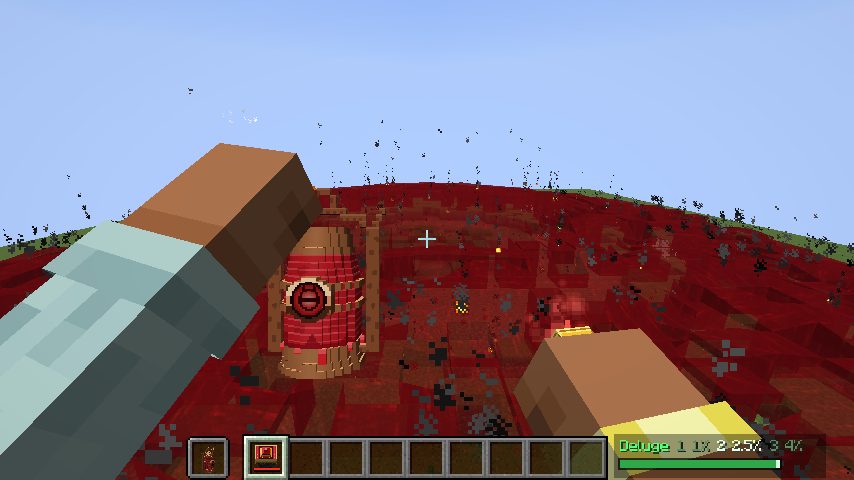
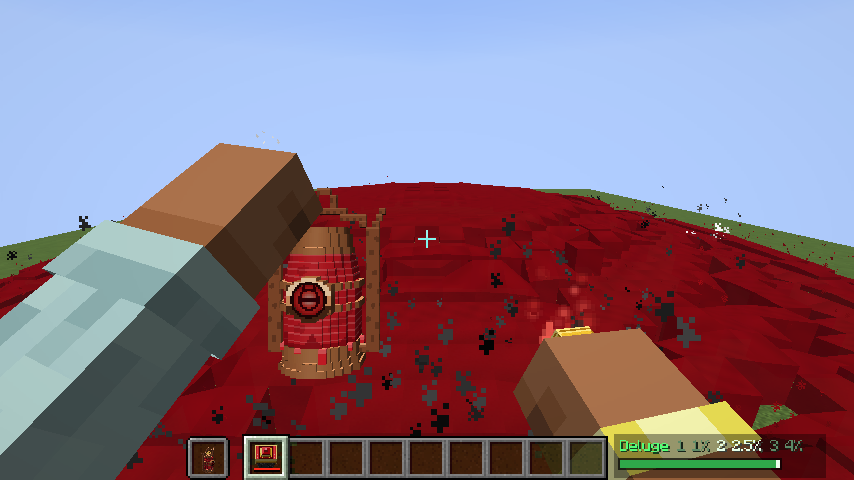
Red Deluge: thick opaque blood with a smooth surface
Complementary copy (patch version 6): the red Deluge is deep blood red and opaque whatever the
Water Opacity setting, with calmer normals and no Waving Water Height. Without shaders it uses
soft, nearly opaque ripples. The pool is one unbroken sheet (no holes in the middle or gobs past
the edge), and the pit floor is soaked nether wart instead of magma, with blood instead of lava
particles.

Claude-Session: https://claude.ai/code/session_015WxYnqCy8SrDgc7MXbPwiZ

Changed region(s): [[0.1218, 0.375, 1.0, 1.0], [0.0, 0.4375, 0.1218, 0.6562], [0.4871, 0.9688, 0.5176, 1.0]]

diff --git a/src/main/java/com/sparky/lanternring/Deluges.java b/src/main/java/com/sparky/lanternring/Deluges.java
@@ -444,13 +444,8 @@ public final class Deluges {
 				double angle = (Math.atan2(dz, dx) / (Math.PI * 2) + 1) * edge.length;
 				int i0 = (int) Math.floor(angle) % edge.length;
 				double t = angle - Math.floor(angle);
-				if (dist > Mth.lerp(t, edge[i0], edge[(i0 + 1) % edge.length])) {
-					// The red one splatters: gobs of its liquid land past the pool's edge, thinning out with distance.
-					if (drop.lava() && level.getRandom().nextDouble() < 0.45 * (1 - (dist - radius * 0.85) / (reach - radius * 0.85))) pour.add(surface);
-					continue;
-				}
-				// The red burst blasts its middle out into the tsunami: only a thin, broken film is left there.
-				if (drop.lava() && dist < radius * 0.45 && level.getRandom().nextDouble() > 0.25 + dist / (radius * 0.45) * 0.5) continue;
+				// The red pool is one smooth, unbroken sheet (J: no sharp angles), so no gobs past its edge or holes in it.
+				if (dist > Mth.lerp(t, edge[i0], edge[(i0 + 1) % edge.length])) continue;
 				pour.add(surface);
 				// The middle of the flood is deeper.
 				if (!drop.lava() && dist < radius * 0.4 && passable(level.getBlockState(surface.above()))) pour.add(surface.above());
@@ -726,8 +721,8 @@ public final class Deluges {
 
 	/** How many layers of ground the red liquid melts down through, one every LAVA_MELT. */
 	private static final int MELT_LAYERS = 2;
-	/** How much of the deeper layer is left as magma (the rest stays as it was). */
-	private static final double MAGMA_SHARE = 0.75;
+	/** How much of the deeper layer is left soaked blood red (the rest stays as it was). */
+	private static final double SOAK_SHARE = 0.75;
 
 	/** The red burst: a spray of fine blood-red drops and splashes, and a roar of flame (the grass at the edge still catches). */
 	private static void lavaBurst(Drop drop, Vec3 center, int radius) {
@@ -755,7 +750,7 @@ public final class Deluges {
 	/**
 	 * The red liquid melts the ground under it, a layer at a time. The first layer melts away into
 	 * more liquid, so the pool sinks into the ground as it drains; the layer under that is mostly
-	 * turned to magma, the glowing floor of the pit it leaves.
+	 * soaked blood red (nether wart block), the floor of the pit it leaves.
 	 */
 	private static void melt(Drop drop) {
 		ServerLevel level = drop.level;
@@ -770,13 +765,13 @@ public final class Deluges {
 				level.setBlock(at, drop.liquid.defaultBlockState(), 2);
 				drop.sunk.add(at.immutable());
 				drop.minY = Math.min(drop.minY, at.getY());
-			} else if (level.getRandom().nextDouble() < MAGMA_SHARE) {
-				level.setBlock(at, Blocks.MAGMA_BLOCK.defaultBlockState(), 3);
+			} else if (level.getRandom().nextDouble() < SOAK_SHARE) {
+				level.setBlock(at, Blocks.NETHER_WART_BLOCK.defaultBlockState(), 3);
 			} else {
 				continue;
 			}
 			if (level.getRandom().nextInt(5) == 0) {
-				level.sendParticles(ParticleTypes.LAVA, at.getX() + 0.5, at.getY() + 2, at.getZ() + 0.5, 1, 0.3, 0.1, 0.3, 0.1);
+				level.sendParticles(BLOOD, at.getX() + 0.5, at.getY() + 2, at.getZ() + 0.5, 3, 0.3, 0.1, 0.3, 0.1);
 			}
 			if (sounds < 8 && level.getRandom().nextInt(12) == 0) {
 				sounds++;
@@ -796,7 +791,7 @@ public final class Deluges {
 		return hardness >= 0 && hardness <= 3.5f && drop.level.mayInteract(drop.owner, pos);
 	}
 
-	/** After the red liquid is gone: forget where it melted (the magma floor is already in place). */
+	/** After the red liquid is gone: forget where it melted (the soaked floor is already in place). */
 	private static void scorch(Drop drop) {
 		drop.sunk.clear();
 	}

diff --git a/src/client/java/com/sparky/lanternring/client/ShaderPackPatcher.java b/src/client/java/com/sparky/lanternring/client/ShaderPackPatcher.java
@@ -32,12 +32,12 @@ import net.minecraft.network.chat.Component;
  * pack version, no copy is made and the mod falls back to {@link ShaderPackIds}.
  *
  * <p>IDs it adds: blocks 19000 (green), 19004 (red), 19008 (violet), 19012 (orange), 19016 (blue),
- * 19020 (yellow, for later), 32002 (green Deluge) and 32003 (Red Deluge), both treated as water; held items 44085 (green)
+ * 19020 (yellow, for later), 32002 (green Deluge) and 32003 (Red Deluge, thick opaque blood), both treated as water; held items 44085 (green)
  * and 44086 (red). Light colour slots 85 to 90 follow the same order.
  */
 final class ShaderPackPatcher {
 	/** Bump when the edits change, so existing copies are made again. */
-	private static final String VERSION = "5";
+	private static final String VERSION = "6";
 	private static final String MARKER = "lanternring-patch.txt";
 	private static final String SUFFIX = " + Lantern Ring";
 	private static final String MATERIALS = "shaders/lib/materials/materialHandling/";
@@ -90,17 +90,25 @@ final class ShaderPackPatcher {
 					item.44085=lanternring:power_battery lanternring:great_battery lanternring:ring_forge
 					item.44086=lanternring:lava_font
 					""")),
-			// The Red Deluge is the pack's water too, but blood red, nearly opaque and faintly glowing,
-			// like molten wax: no green floor on its tint, and a thicker surface.
+			// The Red Deluge is the pack's water too, but thick blood (J, 2026-10-12): deep red, opaque
+			// whatever the Water Opacity setting (you can't see the bottom), a calm smooth surface and only a
+			// faint glow, and no green floor on its tint.
 			"shaders/lib/materials/specificMaterials/translucents/water.glsl", List.of(
 					new Edit("glColorM.g = max(glColorM.g, 0.39);", "if (mat != 32003) glColorM.g = max(glColorM.g, 0.39);"),
 					new Edit(null, """
 
-					if (mat == 32003) { // Lantern Ring: Red Deluge
-					    color.a = max(color.a, 0.88);
-					    emission = max(emission, 0.6);
+					if (mat == 32003) { // Lantern Ring: Red Deluge, thick blood
+					    color.rgb = vec3(0.30, 0.012, 0.02);
+					    color.a = 0.985;
+					    emission = max(emission, 0.2);
+					    #ifdef GBUFFERS_WATER
+					        normalM = normalize(mix(normalM, dot(normalM, normal) < 0.0 ? -normal : normal, 0.75));
+					    #endif
 					}
 					""")),
+			// Its surface doesn't bob with Waving Water Height: on uneven levels that made sharp facets.
+			"shaders/lib/materials/materialMethods/wavingBlocks.glsl", List.of(new Edit("if (mat == 32000) { // Water",
+					"if (mat == 32000 || mat == 32002) { // Water (not the Red Deluge)")),
 			"shaders/entity.properties", List.of(new Edit("entity.50048=glow_squid",
 					"entity.50048=glow_squid lanternring:warden_construct lanternring:dragon_construct lanternring:sentry_construct")));
 	/** Both Deluges are water everywhere the pack checks for real water. */

diff --git a/src/client/java/com/sparky/lanternring/client/LanternRingClient.java b/src/client/java/com/sparky/lanternring/client/LanternRingClient.java
@@ -53,7 +53,7 @@ public class LanternRingClient implements ClientModInitializer {
 	/** The Deluge's liquid colour: the ring's bright green, a touch toward jade. */
 	private static final int HARD_LIGHT_LIQUID_TINT = 0xFF2EE866;
 	/** The Red Lantern's liquid: deep blood red. */
-	private static final int EMBER_LIQUID_TINT = 0xFFA00A12;
+	private static final int EMBER_LIQUID_TINT = 0xFF8C0610;
 
 	@Override
 	public void onInitializeClient() {
@@ -91,13 +91,13 @@ public class LanternRingClient implements ClientModInitializer {
 				new Material(Identifier.withDefaultNamespace("block/water_flow")),
 				new Material(Identifier.withDefaultNamespace("block/water_overlay")),
 				state -> HARD_LIGHT_LIQUID_TINT));
-		// The Red Lantern's Deluge: blood-red water (J, 2026-10-12). Water's own textures tinted deep
-		// red, like the green Deluge, so it ripples and flows like water; the patched Complementary
-		// draws it as its water too (ID 32003, see ShaderPackPatcher).
+		// The Red Lantern's Deluge: thick blood-red liquid (J, 2026-10-12). Soft ripples tinted deep red
+		// and nearly opaque (tools/blood_liquid_textures.py), so the bottom doesn't show; the patched
+		// Complementary draws it as its water, opaque and calm (ID 32003, see ShaderPackPatcher).
 		FluidRenderingRegistry.register(ModFluids.EMBER_SOURCE, ModFluids.EMBER_FLOWING, new FluidModel.Unbaked(
-				new Material(Identifier.withDefaultNamespace("block/water_still")),
-				new Material(Identifier.withDefaultNamespace("block/water_flow")),
-				new Material(Identifier.withDefaultNamespace("block/water_overlay")),
+				new Material(LanternRing.id("block/blood_still")),
+				new Material(LanternRing.id("block/blood_flow")),
+				new Material(LanternRing.id("block/blood_still")),
 				state -> EMBER_LIQUID_TINT));
 
 		ShockwaveDomes.register();

diff --git a/tools/blood_liquid_textures.py b/tools/blood_liquid_textures.py
@@ -1,0 +1,41 @@
+"""The Red Lantern's Deluge liquid: python tools/blood_liquid_textures.py <assets_dir>
+
+Soft, slow ripples in light greys that the game tints blood red (LanternRingClient.EMBER_LIQUID_TINT),
+nearly opaque so you can't see the bottom without shaders either. Low contrast, so it reads as a thick,
+smooth liquid and the per-block repeat doesn't show. With the patched Complementary the pack draws it as
+its own water instead (ShaderPackPatcher, ID 32003). Every frame tiles, and the animation loops.
+"""
+import math, os, sys
+from PIL import Image
+
+A = sys.argv[1]
+OUT = os.path.join(A, "textures", "block")
+FRAMES = 32
+ALPHA = 246
+TAU = 2 * math.pi
+
+
+def ripple(size, frame, flow):
+    im = Image.new("RGBA", (size, size))
+    px = im.load()
+    t = frame / FRAMES * TAU
+    for y in range(size):
+        for x in range(size):
+            u, v = x / size * TAU, y / size * TAU
+            if flow:
+                h = 0.6 * math.sin(v - t + 0.5 * math.sin(u)) + 0.4 * math.sin(2 * v + u - 2 * t)
+            else:
+                h = (math.sin(u + v + t) + math.sin(u - 2 * v - t) + 0.5 * math.sin(2 * u + v + 2 * t)) / 2.5
+            k = 0.84 + 0.12 * (h * 0.5 + 0.5)
+            c = int(255 * k)
+            px[x, y] = (c, c, c, ALPHA)
+    return im
+
+
+for name, size, flow in (("blood_still", 16, False), ("blood_flow", 32, True)):
+    strip = Image.new("RGBA", (size, size * FRAMES))
+    for f in range(FRAMES):
+        strip.paste(ripple(size, f, flow), (0, f * size))
+    strip.save(os.path.join(OUT, name + ".png"))
+    with open(os.path.join(OUT, name + ".png.mcmeta"), "w") as fh:
+        fh.write('{\n\t"animation": {\n\t\t"frametime": 3,\n\t\t"interpolate": true\n\t}\n}\n')

diff --git a/src/gametest/java/com/sparky/lanternring/test/RedLanternTest.java b/src/gametest/java/com/sparky/lanternring/test/RedLanternTest.java
@@ -28,7 +28,7 @@ public class RedLanternTest implements FabricClientGameTest {
 					lava++;
 					if (pos.getY() < o.getY()) below++;
 				}
-				if (level.getBlockState(pos).is(Blocks.MAGMA_BLOCK)) magma++;
+				if (level.getBlockState(pos).is(Blocks.NETHER_WART_BLOCK)) magma++;
 			}
 			for (Pig pig : level.getEntitiesOfClass(Pig.class, new AABB(o).inflate(40))) {
 				if (pig.isOnFire()) burning++;
